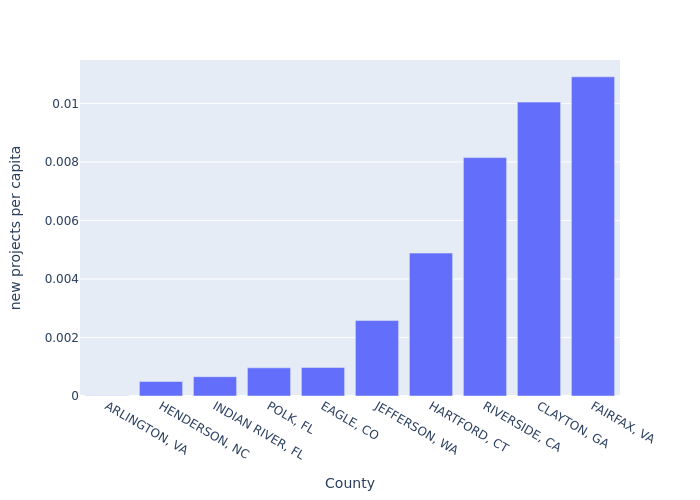
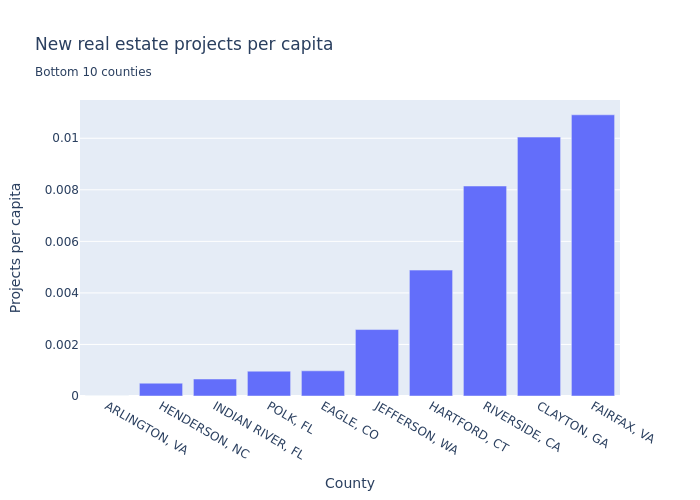
Regenerate Markdown from Jupyter notebook

diff --git a/nimby-vs-yimby/README.md b/nimby-vs-yimby/README.md
@@ -6,6 +6,15 @@ During the second iteration of DoltHub's USA housing price data bounty a large a
 
 Some parts of United States are said to suffer from [NIMBYism](https://en.wikipedia.org/wiki/NIMBY) - a political resistance to new property developments in area by residents of the area. One famous example is Marc Andreesen, a prominent Silicon Valley venture capitalist, [going out of his way](https://www.theatlantic.com/ideas/archive/2022/08/marc-andreessens-opposition-housing-project-nimby/671061/) to prevent new housing to be built in his town - Atherton, CA (despite [generally supporting](https://a16z.com/2020/04/18/its-time-to-build/) new real estate projects in the rest of USA).
 
+There are multiple reasons why people would want to prevent new building from being constructed in their neighborhood:
+* Increase in traffic and polution from vehicles
+* Inconvenience and noise from facilities such as power plants
+* Change in character of the area
+* Potential decrease in value of the current housing
+* Less visibility to historical buildings
+* Environmental impact and decrease of green spaces
+* [Long shadows](https://www.mas.org/interactive_features/accidental-skyline-shadows/)
+
 But perhaps there's also areas that welcome and support new real estate projects? By wielding the power of programming and open data, we are able to leverage the [`us-housing-prices-v2` database](https://www.dolthub.com/repositories/dolthub/us-housing-prices-v2) and find which are which. 
 
 ## Methodology
@@ -156,14 +165,18 @@ from IPython.display import Image
 
 labels = {
     "county_state": "County",
-    "per_area": "new projects per square mile",
-    "per_capita": "new projects per capita",
-    "per_capita_stdevs_from_mean": "standard devs. from mean (per capita)",
-    "per_area_stdevs_from_mean": "standard devs. from mean (per area)"
+    "per_area": "Projects per square mile",
+    "per_capita": "Projects per capita",
+    "per_capita_stdevs_from_mean": "St. devs. from mean (per capita)",
+    "per_area_stdevs_from_mean": "St. devs. from mean (per area)"
 }
 
 df_counts_by_county = df_counts_by_county.sort_values('per_capita', ascending=False)
-fig = px.bar(df_counts_by_county, x='county_state', y='per_capita', title="New real estate sales per capita", labels=labels)
+fig = px.bar(df_counts_by_county, 
+             x='county_state', 
+             y='per_capita', 
+             title="New real estate projects per capita", 
+             labels=labels)
 fig.write_image("per_capita_by_county.png")
 Image(filename="per_capita_by_county.png")
 ```
@@ -179,7 +192,11 @@ Image(filename="per_capita_by_county.png")
 
 
 ```python
-fig = px.bar(df_counts_by_county, x='county_state', y='per_capita_stdevs_from_mean', title="New real estate sales per capita (stdevs. from mean)", labels=labels)
+fig = px.bar(df_counts_by_county,
+             x='county_state', 
+             y='per_capita_stdevs_from_mean', 
+             title="New real estate sales per capita (stdevs. from mean)<br><sup>How much does each country stand out in terms of new real estate projects per capita?<br> Positive values mean above average, negative values mean below average</sup>", 
+             labels=labels)
 fig.write_image("per_capita_stdevs_by_county.png")
 Image(filename="per_capita_stdevs_by_county.png")
 ```
@@ -201,7 +218,11 @@ What are top 10 counties we know of with highest per capita number of new real e
 ```python
 df_best_per_capita = df_counts_by_county.sort_values('per_capita', ascending=False).head(10)
 
-fig = px.bar(df_best_per_capita, x="county_state", y="per_capita", labels=labels)
+fig = px.bar(df_best_per_capita, 
+             x="county_state", 
+             y="per_capita", 
+             title="New real estate projects per capita<br><sub>Top 10 counties</sub>",
+             labels=labels)
 fig.write_image("top10_per_capita_by_county.png")
 Image(filename="top10_per_capita_by_county.png")
 ```
@@ -223,7 +244,11 @@ What are the 10 counties with lowest per capita amounts of new real estate proje
 
 ```python
 df_worst_per_capita = df_counts_by_county.sort_values('per_capita', ascending=True).head(10)
-fig = px.bar(df_worst_per_capita, x="county_state", y="per_capita", labels=labels)
+fig = px.bar(df_worst_per_capita,
+             x="county_state",
+             y="per_capita", 
+             title="New real estate projects per capita<br><sub>Bottom 10 counties</sub>",
+             labels=labels)
 fig.write_image("worst10_per_capita_by_county.png")
 Image(filename="worst10_per_capita_by_county.png")
 ```
@@ -249,7 +274,11 @@ Now, let us look into per-area numbers using the same kind of charts.
 
 ```python
 df_counts_by_county = df_counts_by_county.sort_values('per_area', ascending=False)
-fig = px.bar(df_counts_by_county, x='county_state', y='per_area', title="New real estate sales per area", labels=labels)
+fig = px.bar(df_counts_by_county, 
+             x='county_state', 
+             y='per_area', 
+             title="New real estate projects per area", 
+             labels=labels)
 fig.write_image("per_area_by_county.png")
 Image(filename="per_area_by_county.png")
 ```
@@ -266,7 +295,11 @@ Image(filename="per_area_by_county.png")
 
 ```python
 df_counts_by_county = df_counts_by_county.sort_values('per_area_stdevs_from_mean', ascending=False)
-fig = px.bar(df_counts_by_county, x='county_state', y='per_area_stdevs_from_mean', title="New real estate sales per area (stdevs. from mean)", labels=labels)
+fig = px.bar(df_counts_by_county,
+             x='county_state', 
+             y='per_area_stdevs_from_mean', 
+             title="New real estate projects per area (stdevs. from mean)<br><sup>How much does each country stand out in terms of new real estate projects?<br> Positive values mean above average, negative values mean below average</sup>", 
+             labels=labels)
 fig.write_image("per_area_stdevs_by_county.png")
 Image(filename="per_area_stdevs_by_county.png")
 ```
@@ -283,7 +316,11 @@ Image(filename="per_area_stdevs_by_county.png")
 
 ```python
 df_best_per_area = df_counts_by_county.sort_values('per_area', ascending=False).head(10)
-fig = px.bar(df_best_per_area, x="county_state", y="per_area", labels=labels)
+fig = px.bar(df_best_per_area, 
+             x="county_state", 
+             y="per_area", 
+             title="New real estate projects per capita<br><sub>Top 10 counties</sub>",
+             labels=labels)
 fig.write_image("top10_per_area_by_count.png")
 Image(filename="top10_per_area_by_count.png")
 ```
@@ -297,10 +334,11 @@ Image(filename="top10_per_area_by_count.png")
 
 
 
-* A strong outlier here is New York, which is probably unsuprising.
+* A strong outlier here is New York County, which is probably unsuprising. Kings County (Brooklyn) and Queens County also have strong per-area values.
 * Hudson, NJ is the most densely populated county in New Jersey. Some other counties of NJ are also represented.
 * Philadelpia, PA is (was?) undergoing a [real estate boom](https://whyy.org/articles/as-philadelphia-s-housing-market-booms-economists-warn-the-city-may-be-in-a-bubble-or-something-worse/) including some [billion-dollar projects](https://www.bizjournals.com/philadelphia/news/2022/10/16/philadelphia-development-projects-real-estate.html).
 * Suffolk County, MA is of interest to investors and is now building some [10 000 new housing units](https://bostonrealestatetimes.com/150-million-construction-loan-secured-for-suffolk-downs-redevelopment/).
+* Distribution of per-area values has some positive outliers, but no negative outliers - after the initial dropoff distance from the mean stays quite small.
 
 ## Conclusions
 
